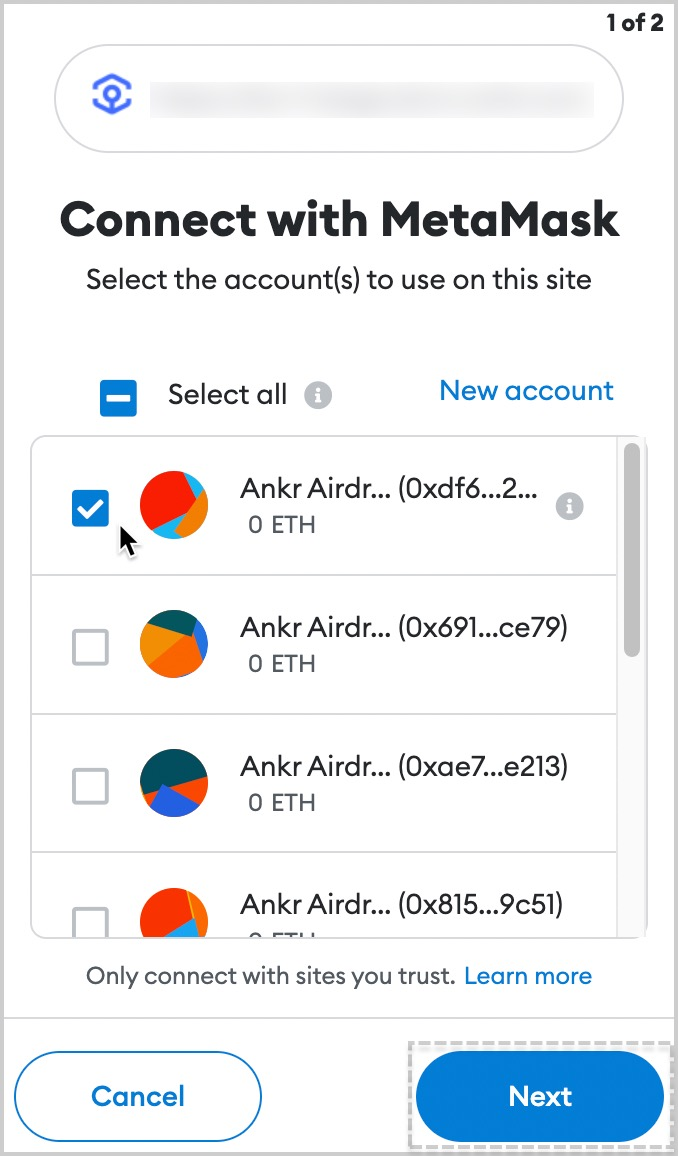
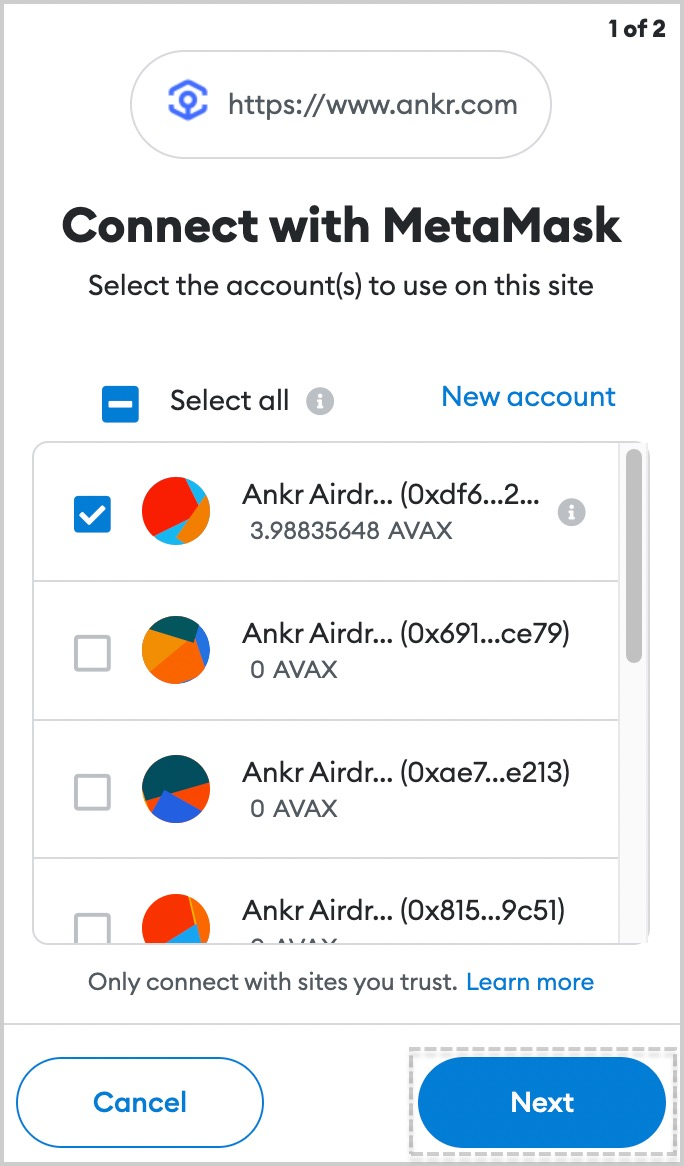
STAKAN-1252: refactor instructions, add pics for AVAX

diff --git a/pages/staking/liquid-staking/avax/stake.md b/pages/staking/liquid-staking/avax/stake.md
@@ -75,10 +75,13 @@ Staking AVAX is a two-step process:
 7. If asked by Ankr Staking to switch networks, select a network of your choice.
    <img src="/docs/staking/connect-wallet/select-supported-network.jpg" alt="Select a supported network" class="responsive-pic" width="500" />
 8. Click **Switch network** to confirm switching.
-   <img src="/docs/staking/connect-wallet/confirm-switching-networks.jpg" alt="Confirm switching networks" class="responsive-pic" width="300" />
+   <img src="/docs/staking/connect-wallet/confirm-switching-networks-avalanche.jpg" alt="Confirm switching networks" class="responsive-pic" width="300" />
+
+<Callout>
+If the wallet isn't showing as connected, click **Connect wallet** and choose **MetaMask** again, this should do the trick.
+</Callout>
 
 ### Stake your AVAX
-
 <Callout>
 Have a small amount of AVAX to cover Avalanche gas fees, which may range from 0.025 to 0.1 AVAX.
 [Learn more about fees](https://docs.avax.network/learn/platform-overview/transaction-fees).
